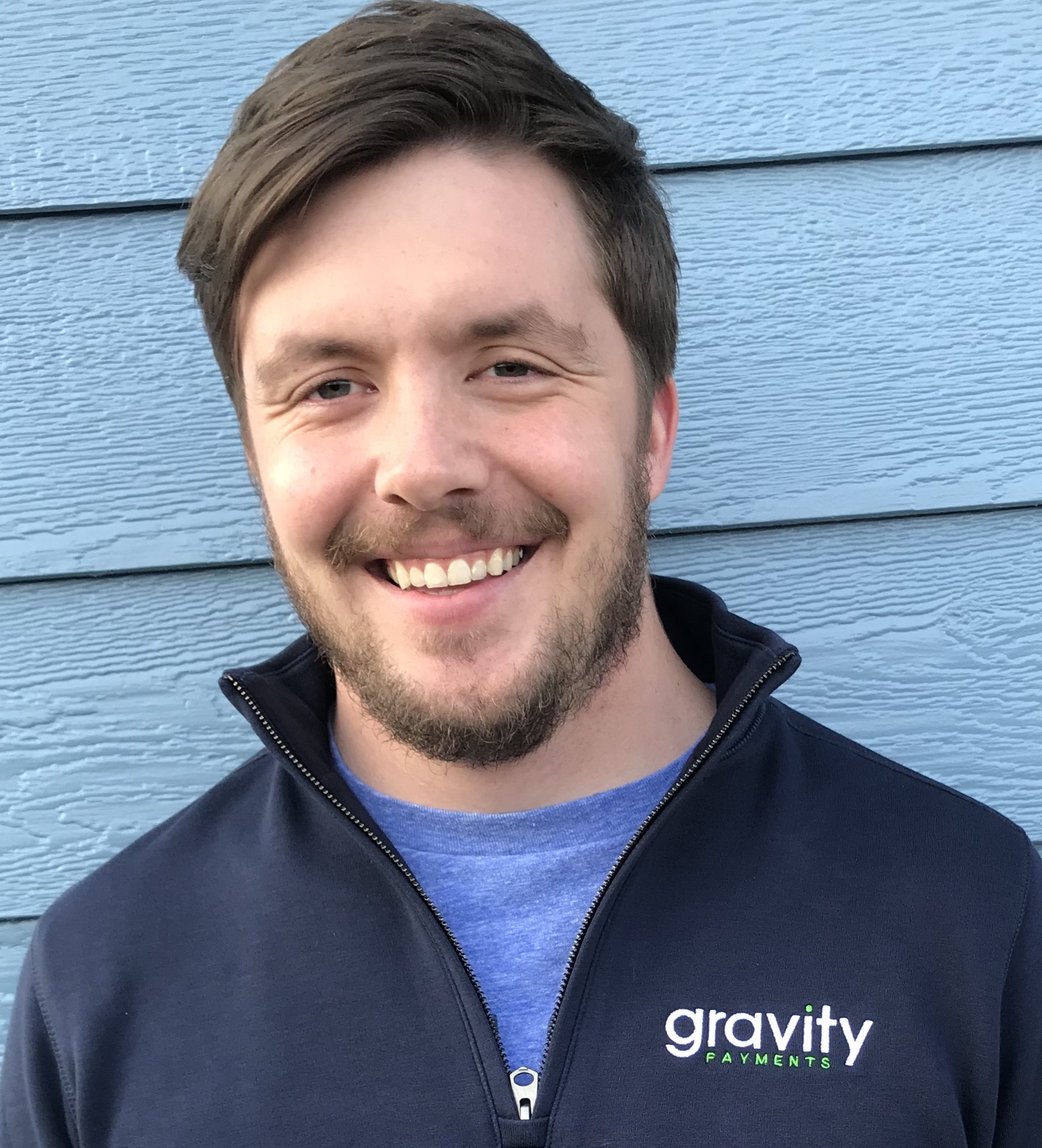
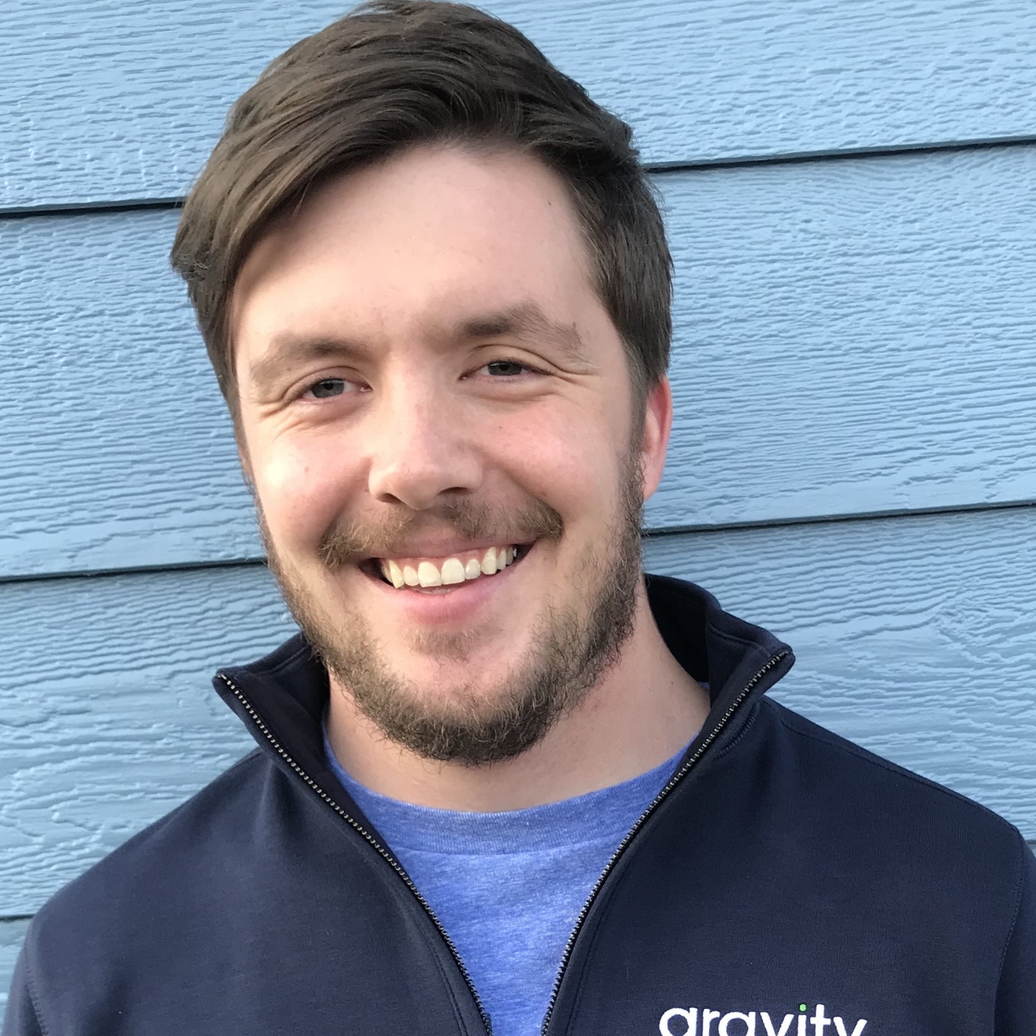
adjusted spacing and profile pic size to fix flat edged circle

diff --git a/index.html b/index.html
@@ -60,7 +60,7 @@
         <img src="profile-pic.jpeg" alt="Your Profile Picture">
         <h2>Hunter Clark</h2>
         <p>Graduate Student, University of Idaho</p>
-        <a href="www.linkedin.com/in/hunterclark91" target="_blank"><button>LinkedIn</button></a>
+        <a href="https://www.linkedin.com/in/hunterclark91" target="_blank"><button>LinkedIn</button></a>
     </div>
     <div class="bio">
         <p>My name is Hunter Clark, I am a data engineer with five years of experience building and optimizing data pipelines, specializing in feature engineering for data science models. I am currently pursuing a Master’s in Computer Science at the University of Idaho, where I focus on machine learning and data-driven solutions. I earned my Bachelor’s degree in Mathematics from Boise State University.
